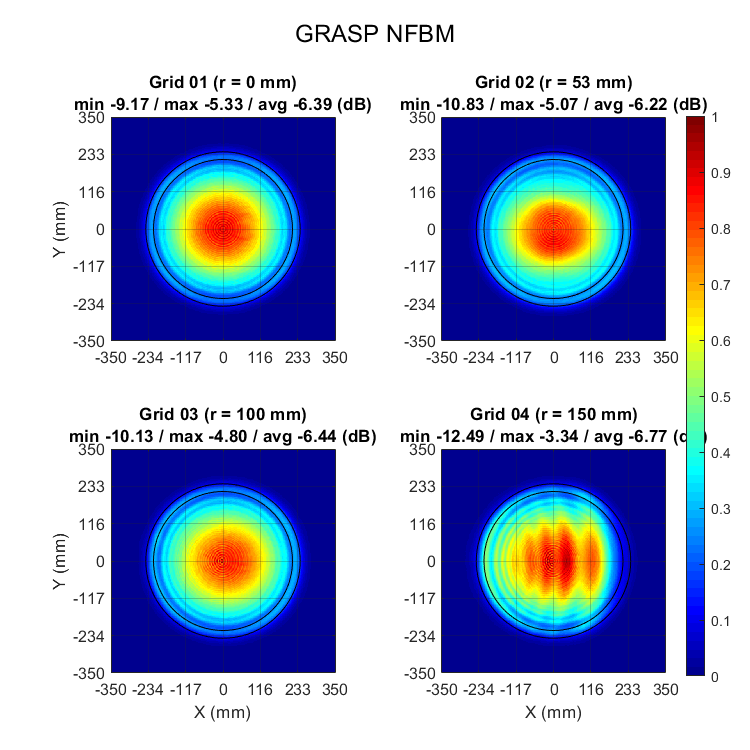
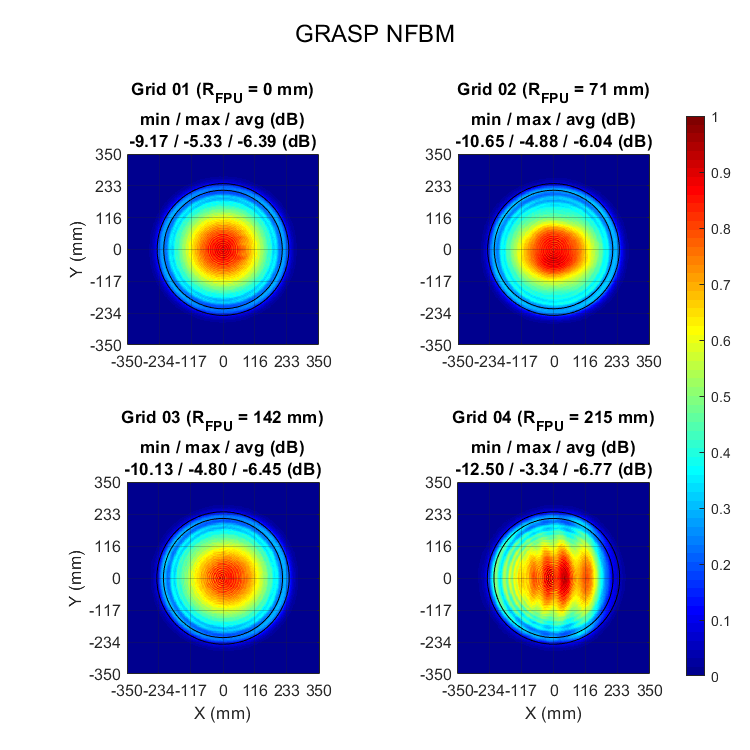
Update to grasp compare posting

diff --git a/2020mmdd_nfbm_grasp_compare/index.html b/2020mmdd_nfbm_grasp_compare/index.html
@@ -34,10 +34,10 @@
 <link href="scripts/pager.css" rel="stylesheet" type="text/css"/>
 
 <header>
-    <h1>Near Field Beam Metrics</h1>
+    <h1>A Comparison of Measured and GRASP-Simulated Near Field Beam Maps</h1>
 
-    <time class="published updated" datetime="2020-06-02">
-        2020 June 02
+    <time class="published updated" datetime="2020-xx-xx">
+        2020 mmm dd
     </time>
     —
     J. Cornelison
@@ -46,232 +46,19 @@
 </header>
 
 
-<p>This posting follows <a href="JAC2020"></a> in presenting estimates various metrics from near field beam maps particularly for BICEP3 data. These
-    parameters are not only useful in tracking systematics at the focal plane level, but we also want to try to connect
-    these to deprojected residuals and eventually resulting B-mode power. This posting goes more in depth on the model used to derive the location of the aperture WRT the telescope boresight. I also present updated results for beam steer using new gaussian fits as well as a comparison of measured edge tapers to Paul Grimes' GRASP simulations of near field power.</p>
+<p>Words.
 <hr>
 
 
-<section>
-    <h2>Definition of Metrics</h2>
-    <h3>Beam Steer</h3>
-    <p>
-        Thickness variation in the intermediate layer between the Niobium groundplane and microstrip lines can create a
-        phase gradient in the summing network. This phase gradient manifests as an angular offset from the direction
-        normal to the focal plane of the beam trajectory coming out of the antenna feed. As projected onto the plane of
-        the aperture, the offset trajectory would look like a translation of the beam center from the aperture center in
-        near field beam maps. Thus, <b>we define beam steer as the offset between the beam center and aperture
-        center</b>.
-    </p>
-
-    <h3>Edge Taper</h3>
-    <p>In our instrumental designs, we configure the optics with a specific target for edge taper in mind. Estimating
-        the minimum, maximum, and azimuthal average edge taper tells us how we compare to the as-designed values. The
-        "edge" is determined by defining an annulus within which we calculate the taper parameters. <b>The outer
-            boundary of the edge is defined by the aperture diameter and the inner boundary is arbitrarily selected to
-            be N% smaller than the aperture diameter.</b> For the figures below, I've set the inner boundary to be 10%
-        of the aperture diameter.
-    </p>
-
-    <figure>
-        <img src="figs/nfbm_edge_taper_min_max_avg.png"/>
-    </figure>
-
-</section>
-<section><h2>Procedure</h2>
-    <p>
-        We mostly follow the procedure historically done in <a href="CLW2012A"></a> but we list it here explicitly
-        for clarity:
-    <ol>
-        <li>Determine the location of the aperture in the beam map coordinate system.</li>
-        <ul>
-            <li>This is accomplished by stacking multiple maps and shifting/rotating until we can identifying a
-                sharp truncation in amplitude from the aperture.
-            </li>
-        </ul>
 
 
-        <li>Fit Gaussian profiles to per-detector beams.</li>
-        <ul>
-            <li>In my previous posting <a href="JAC2020"></a>, I used parameter estimates on the beams that we done as
-                part of the reduction pipeline. In this posting, I fit each beam to a 4-parameter symmetrical
-                Gaussian, masking out all data beyond a 150mm radius around the apparent aperture center of each
-                detector.
-            </li>
-        </ul>
-        <li>Subtract aperture center from as-fit beam center to get the beam steer.</li>
-        <li>Determine apparent size of the aperture.</li>
-        <ul>
-            <li>In the coadded map, it is easy to see the sharp cut off due to the aperture. As can be seen in the
-                figure below, the as-given illuminated aperture is notably larger than the apparent aperture. The
-                aperture diameter in this case was set by-eye at 483mm.
-            </li>
-        </ul>
-        <figure>
-            <img alt="Maps pager" id="aptpager" src="#"/>
-            <figcaption>
-                The shifted and coadded map for 8 good pixels with the physical aperture size overlaid on top. The
-                <b>Given</b> aperture size of 520mm is the listed BICEP3 "Illuminated Aperture" from the <a
-                    href="https://docs.google.com/spreadsheets/d/1imzDteb9FE-Cjh5p8T4tjHvL0X6UEihp94yvQgXON5k/edit#gid=473345804">Telescope
-                & Instrument Parameters Doc</a>. The <b>Set</b> aperture size is the by-eye setting of 483mm".
-            </figcaption>
-            <script type="text/javascript">
-                pager.link("#aptpager",
-                    {
-                        'Illum. Apt.|a': ['Given|given', 'Set|set'],
-                    },
-                    function (params) {
-                        return 'figs/apt_size_' + params.a + '.png';
-                    });
-                pager.setparams({
-                    'a': 'given',
-                });
-            </script>
-        </figure>
-        <li>Calculate per-detector edge taper parameters based on aperture center, size, and margin.</li>
-    </ol>
-    </p>
 
-</section>
-<section>
-    <h2>Dataset</h2>
-    The dataset used in this posting comes from the Nov 2016 - Feb 2017 Calibration season, the maps for which can
-    be found in <a href="TSG2020B"></a>.
-</section>
-
-<section><h2>Aperture Modeling</h2>
-    <h3>Finding the Aperture</h3>
-    <p>
-        The apparent aperture center of each detector in the near-field beam map coordinate system,
-        ($x_{apt},\,y_{apt}\,$), is calculated using four global parameters in conjunction with the ideal detector
-        pointings ($r,\,\theta\,$):
-    </p>
-    \begin{equation}
-    \begin{split}
-    &x_{apt} = d \tan(r)\sin(\theta+\phi)+x_{0}\\
-    &y_{apt} = d \tan(r)\cos(\theta+\phi)+y_{0}
-    \end{split}
-    \end{equation}
-    <p>
-        where $d$ is the distance from the aperture plane to the mapper plane, $\phi$ is the rotation of the mapper
-        WRT the boresight-centered coordinate system, and ($x_0,\,y_0$) is the offset from the origin of the mapper
-        to the center of the aperture.
-    </p>
-
-    <p>
-        These parameters are estimated using a background+mask model. In the real beam maps, I assume little-to-no
-        signal should exist beyond the aperture and that the aperture is symmetric. Thus, for a map with amplitude
-        $A(x,y)$ masking out the data within the radius of the aperture, $R_{apt}$, should result in a constant
-        background signal $A_{bg}$:
-
-    </p>
-    \begin{equation}
-    A(x,y\,|\,x_{apt},\,y_{apt},\,R_{apt}) =
-    \begin{cases}
-    \text{NaN} & \sqrt{(x-x_{apt})^2+(y-y_{apt})^2}\lt R_{apt} \\
-    A_{bg} & \sqrt{\left(x-x_{apt}\right)^2+(y-y_{apt})^2}\ge R_{apt} \\
-    \end{cases}
-    \end{equation}
-
-    <p>
-        The maps from a few pixels (both A & B detectors) spread out across the focal plane are simultaneously fit
-        to the model above to estimate the parameters $\left(x_0,\,y_0,\,d,\,\phi,\,A_{bg}\right)$. The pager below
-        shows the masked maps. In the 'After Fit' plots, we can see that a single set of parameters adequately masks
-        all beams, leaving only a flat level of background noise. For the data used in this posting the best-fit
-        parameters are:
-    </p>
-    <table class="center">
-        <tr>
-            <th>$x_0$ (mm)</th>
-            <th>$y_0$ (mm)</th>
-            <th>$d$ (mm)</th>
-            <th>$\phi$ (&deg;)</th>
-            <th>$A_{bg}$ (mm)</th>
-        </tr>
-        <tr>
-            <td>18.0</td>
-            <td>38.7</td>
-            <td>535.7</td>
-            <td>16.2</td>
-            <td>0.55</td>
-        </tr>
-    </table>
-
-    <h3>Shifting the Maps</h3>
-
-    <p>
-
-        The coadded map is created by calculating the per-detector aperture positions using Eq. 1 with the best-fit
-        parameters of $\left(x_0,\,y_0,\,d,\,\phi\right)$ as inputs and then shifting the maps before coadding.
-    </p>
-
-
-    <figure>
-        <img alt="Maps pager" id="shiftpager" src="#"/>
-        <figcaption>
-            <b>Fit:</b> Maps of 8 good detectors across the focal plane masked over using the model described in EQ.
-            2 and the coadded maps for 8 whole pixels (center) after shifting using Eq. 1 and all zeros (<b>Fit:
-            None</b>) or the best-fit parameters (<b>Fit: After</b>) as inputs.
-            <b>Shift:</b> Maps of 8 good detectors across the focal plane and the coadded maps for 8 whole pixels
-            (center) before and after shifting.
-        </figcaption>
-        <script type="text/javascript">
-            pager.link("#shiftpager",
-                {
-                    'Plot|c': ['Fit|fit', 'Shift|shift'],
-                    'Fit|s': ['None|before', 'After|after'],
-                },
-                function (params) {
-                    return 'figs/apt_fit_' + params.s + '_' + params.c + '.png';
-                });
-            pager.setparams({
-                'c': 'fit',
-                's': 'before',
-            });
-        </script>
-    </figure>
-
-
-</section>
-
-<section><h2>Results</h2>
-    <p>
-    <h3>Beam Steer</h3>
-    Beam steer has been recalculated using the new 4-parameter beam fits.
-    <figure>
-        <img alt="Test" src="figs/beam_steer.png"/>
-        <figcaption>
-            Quiver plot of beam steer for A and B polarization RGL detectors in <font color="blue">blue</font> and
-            <font color="red">red</font> respectively.
-        </figcaption>
-    </figure>
-
-    <h3>Edge Taper</h3>
-    <figure>
-        <img alt="Maps pager" id="taperpager" src="#"/>
-
-        <script type="text/javascript">
-            pager.link("#taperpager",
-                {
-                    'Metric|m': ['Min|min', 'Max|max', 'Avg|avg'],
-                },
-                function (params) {
-                    return 'figs/tile_plot_edge_taper_' + params.m + '.png';
-                });
-            pager.setparams({
-                'm': 'min',
-            });
-        </script>
-    </figure>
-</section>
 <section>
     <h2>Comparing Real NFBM's to GRASP Sims</h2>
-    <p>
-    In this section, I perform my edge taper analysis on Paul's GRASP simulations of near field power 20" (~410mm) from the aperture. In the pager below, I also provide four Pol A detectors that are relatively close in pointing to the the sims. In the plots below, the particular sims used were the co-polar field amplitudes in <tt>Main beam only/BICEP3_asBuilt_PO_withForebaffle_Nearfield_Grid_##</tt>.
-    </p>
-    <p>
-    By accounting for the distance to the mapper, the simulated edge tapers are now much closer to the measured edge taper, but the power roll off is much slower for the sims compared to the real data.
-    </p>
+    <ul>
+        <li>Applying debias to measured beam maps</li>
+        <li>Absolute min/max values can be thrown off by statistical fluctuations, so I added a "quantile" page showing 10th-percentile, 90th-percentile, and median in lieu of min,max, and avg respectively.</li>
+    </ul>
     <figure>
         <img alt="Maps pager" id="taperpager2" src="#"/>
 
@@ -279,14 +66,20 @@
             pager.link("#taperpager2",
                 {
                     'Map|mp': ['Measured|real', 'GRASP|grasp', 'Downsampled|grasp_ds'],
+                    'Taper|tp': ['min/max/avg|','Quantile|_quantile']
                 },
                 function (params) {
-                    return 'figs/simcompare_' + params.mp + '.png';
+                    return 'figs/simcompare_' + params.mp + '' + params.tp +'.png';
                 });
             pager.setparams({
                 'mp': 'real',
+                'tp':'',
             });
         </script>
+    </figure>
+
+    <figure>
+        <img src="figs/beam_profiles.png"/>
     </figure>
 
 </section>
